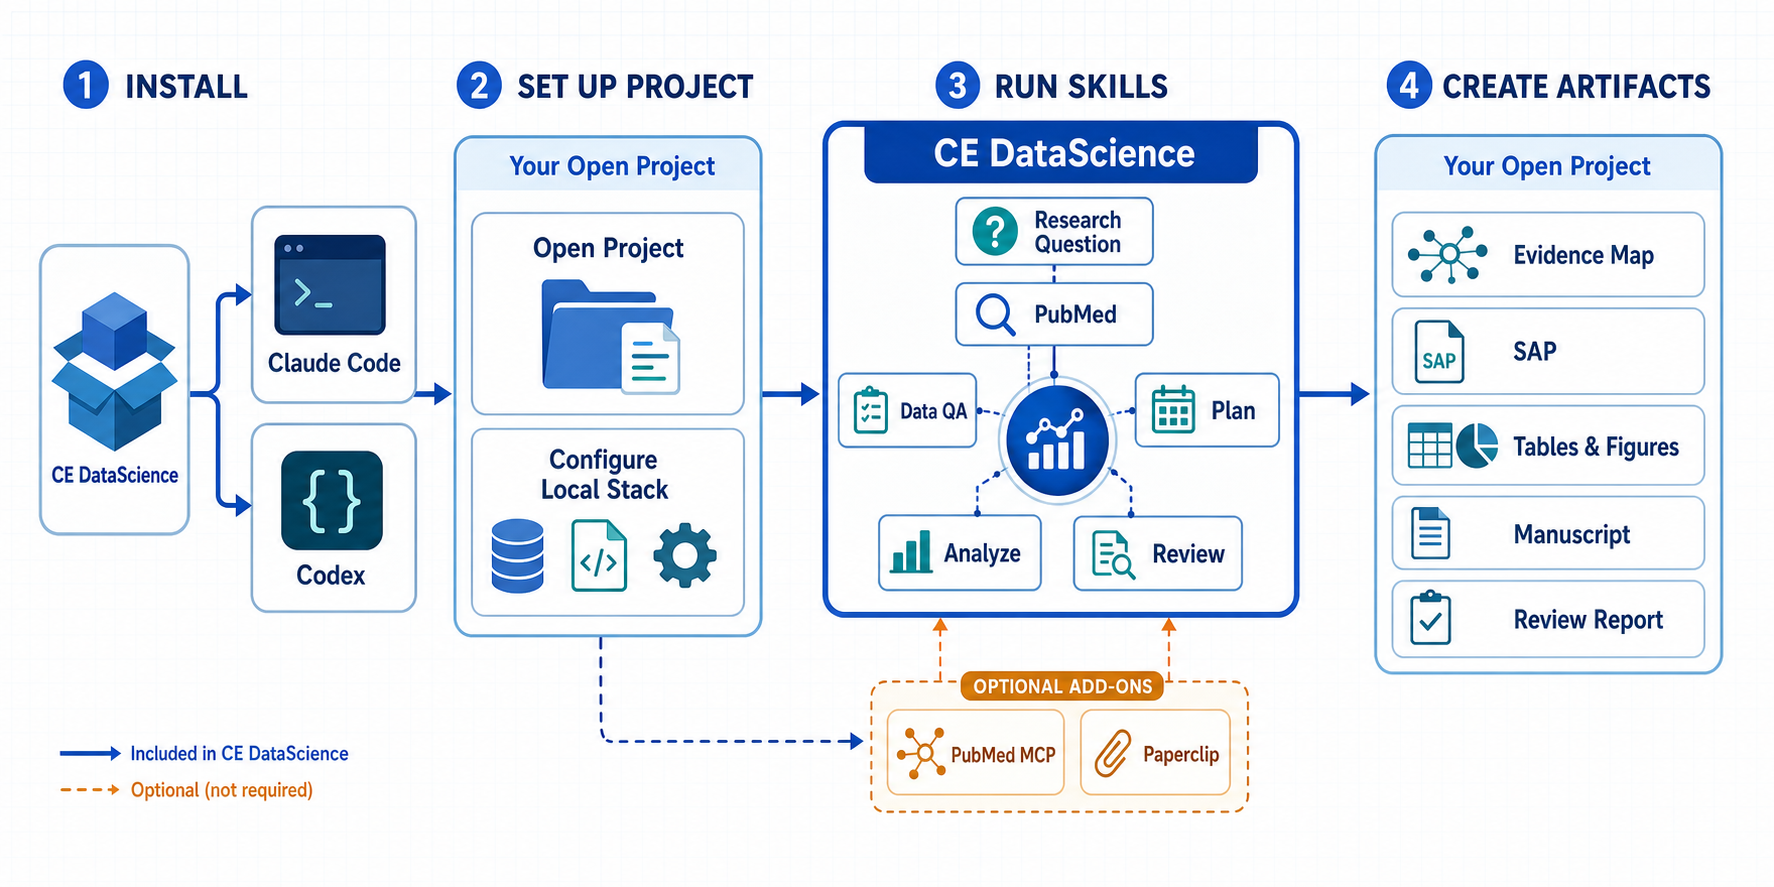
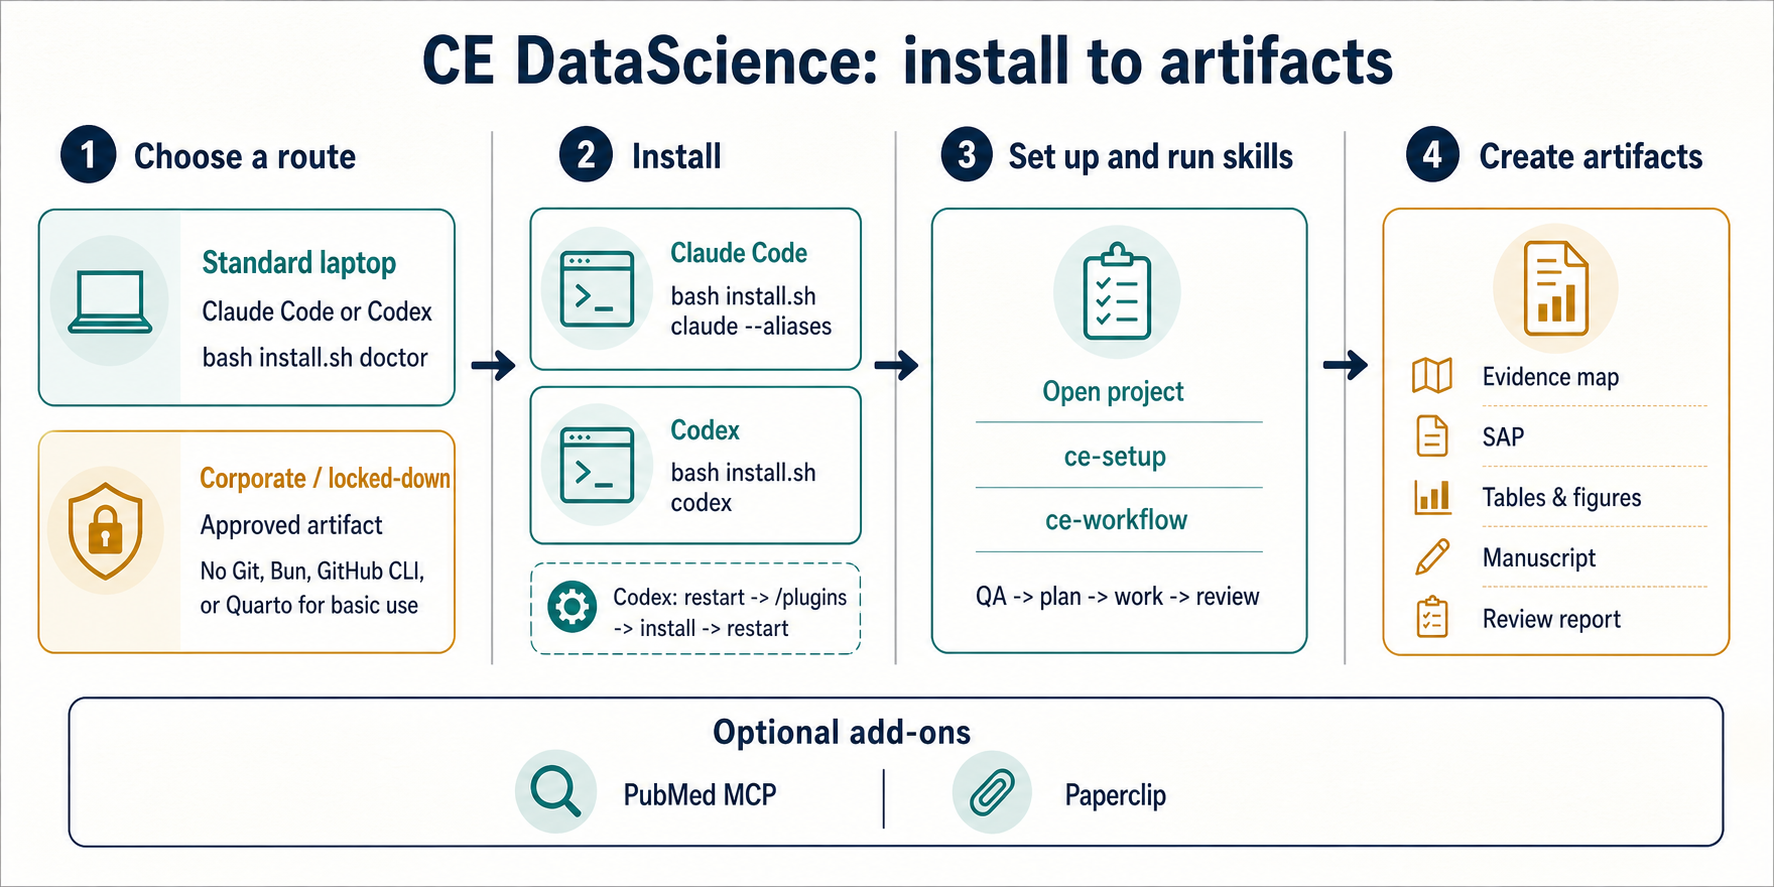
feat(onboarding): clarify installation and workflow safeguards

diff --git a/tests/corporate-install.test.ts b/tests/corporate-install.test.ts
@@ -60,6 +60,12 @@ describe("corporate install artifacts", () => {
     expect(claude.stdout).toContain("install-claude-aliases.sh")
     expect(claude.stdout).toContain("/ce-setup")
 
+    const doctor = await run(["bash", installer, "doctor"])
+    expect(doctor.stdout).toContain("CE DataScience install check")
+    expect(doctor.stdout).toContain("Standard laptop:")
+    expect(doctor.stdout).toContain("Locked-down or corporate laptop:")
+    expect(doctor.stdout).toContain("Codex always requires the final host step")
+
     const codex = await run([
       "bash",
       installer,
@@ -112,6 +118,7 @@ describe("corporate install artifacts", () => {
     expect(powershellInstaller).toContain("CE_DATASCIENCE_ALIAS_MANAGED")
     expect(powershellInstaller).toContain('Test-CommandAvailable "python3"')
     expect(powershellInstaller).toContain('Test-CommandAvailable "py"')
+    expect(powershellInstaller).toContain('"doctor" { Show-Doctor }')
 
     const readme = await fs.readFile(path.join(repoRoot, "README.md"), "utf8")
     const setupDocs = await fs.readFile(path.join(repoRoot, "docs", "setup.md"), "utf8")
@@ -122,6 +129,7 @@ describe("corporate install artifacts", () => {
       expect(doc).toContain("bash install.sh codex")
       expect(doc).toContain(".\\install.ps1 claude -Aliases")
       expect(doc).toContain(".\\install.ps1 codex")
+      expect(doc).toContain("install.sh doctor")
     }
     expect(setupDocs).toContain("Windows PowerShell")
     expect(setupDocs).toContain("Git Bash")
@@ -449,5 +457,27 @@ describe("corporate install artifacts", () => {
     expect(setupDocs).toMatch(/Never send protected\s+health information/)
     expect(setupDocs).toMatch(/must not install or authenticate\s+either add-on automatically/)
     expect(setupDocs).toMatch(/running `\/ce-evidence-map` authorizes\s+its documented optional deepening/)
+  })
+
+  test("public docs describe the current method and CLIF safeguards", async () => {
+    const rootReadme = await fs.readFile(path.join(repoRoot, "README.md"), "utf8")
+    const setupDocs = await fs.readFile(path.join(repoRoot, "docs", "setup.md"), "utf8")
+    const pluginReadme = await fs.readFile(path.join(pluginRoot, "README.md"), "utf8")
+    const docsIndex = await fs.readFile(path.join(repoRoot, "docs", "index.html"), "utf8")
+
+    for (const doc of [rootReadme, setupDocs, pluginReadme, docsIndex]) {
+      expect(doc).toContain("--version 2.1.0")
+      expect(doc).toContain("--version 3.0.0")
+      expect(doc).toMatch(/time-dependent AUC/i)
+    }
+
+    for (const doc of [rootReadme, setupDocs, pluginReadme]) {
+      expect(doc).toMatch(/estimand/i)
+      expect(doc).toMatch(/missing-data/i)
+      expect(doc).toMatch(/synthetic\/fallback|fallback data|fabricating fallbacks/i)
+    }
+
+    expect(pluginReadme).toContain("GO/WARN/NO-GO")
+    expect(setupDocs).toContain("pi-ask-user")
   })
 })

diff --git a/docs/index.html b/docs/index.html
@@ -63,6 +63,11 @@
       Clone the repository, run the installer for your agent, restart the agent,
       and open the project or study directory where you want the plugin to work.
     </p>
+    <p>
+      From a source checkout, run <code>bash install.sh doctor</code> (or
+      <code>.\install.ps1 doctor</code> in PowerShell) to identify the standard
+      or corporate/locked-down route before making changes.
+    </p>
     <h3>Claude Code</h3>
     <pre><code>git clone https://github.com/sajor2000/ce-datascience.git ~/ce-datascience
 cd ~/ce-datascience
@@ -96,6 +101,20 @@ bun run src/index.ts install ./plugins/ce-datascience --to pi --pi-home "$HOME/.
       with Pi's skill interface. The setup skill first shows a concise detected
       profile and lets the user continue, adjust one field, or open the full
       survey.
+    </p>
+    <h2>Evidence and version safeguards</h2>
+    <p>
+      Before planning or modeling, CE DataScience checks row counts, joins,
+      keys, types, and missing-data handling instead of fabricating fallbacks.
+      For observational work, it keeps the estimand, analysis grain, time zero,
+      and assumptions visible for analyst resolution.
+    </p>
+    <p>
+      CLIF projects can select a matching dictionary and mCIDE family directly:
+      <code>/ce-clif --version 2.1.0</code> selects CLIF/mCIDE 2.1, while
+      <code>/ce-clif --version 3.0.0</code> selects the matching 3.0 family.
+      Dynamic survival models receive censoring-aware, decision-aligned
+      time-dependent AUC review rather than a generic AUC-only check.
     </p>
     <p>
       <a href="https://github.com/sajor2000/ce-datascience"

diff --git a/plugins/ce-datascience/README.md b/plugins/ce-datascience/README.md
@@ -13,6 +13,12 @@ Compound engineering for computational scientists. SAP management, statistical r
 For complete copy-paste setup across Claude Code, Codex, OpenCode, Gemini CLI,
 Kiro, Pi, and Qwen Code, see [`../../docs/setup.md`](../../docs/setup.md).
 
+From a source checkout, run `bash install.sh doctor` (or
+`.\install.ps1 doctor` in PowerShell) for a read-only check of the standard and
+locked-down routes. It detects the local agent CLIs and optional Bun bridge,
+then prints the appropriate next command. Corporate users can use approved
+offline artifacts without Git, Bun, GitHub CLI, or Quarto.
+
 Fastest normal Claude Code setup:
 
 macOS, Linux, WSL, or Git Bash:
@@ -134,6 +140,27 @@ adjust one field, or choose the full survey. It infers language, environment,
 reporting, storage, and data domain from project files and leaves optional
 preferences unset instead of forcing a long questionnaire.
 
+### Safety gates in current workflows
+
+CE DataScience keeps method decisions explicit rather than filling gaps with
+defaults. `ce-data-qa` checks row-count reconciliation, key uniqueness, join
+cardinality, type stability, index alignment, and declared missing-data
+handling before it emits GO, WARN, or NO-GO. Confirmed corruption or undeclared
+synthetic/fallback data is a NO-GO.
+
+For observational or causal work, `ce-plan` and
+`ce-statistical-analysis-plan` require an estimand, intended grain, keys, time
+zero, assumptions, and success criteria before finalization. `ce-work` fails
+loudly at missing, corrupt, or incompatible inputs. `ce-code-review` separates
+demonstrated integrity defects (blocking) from methodological questions that
+need analyst resolution, including causal timing and dynamic survival-model
+evaluation.
+
+For dynamic survival decisions, the calibration reviewer requires a stated
+decision time and horizon, a case/control definition, censoring-aware
+time-dependent AUC with confidence intervals, and calibration at the matching
+horizon. A generic binary AUC or Harrell C-index does not answer that question.
+
 Connection skills can hand setup a verified database default by emitting
 `__CE_CONNECTION__ name=<name> type=<postgres|sqlite|duckdb|other> database=<db> auth=<auth> status=verified`.
 For database-backed projects, `data_root` stays optional and is used only for
@@ -219,14 +246,14 @@ The compound engineering loop adapted for data science: hypothesize, design stud
 | `/ce-research-question` | Harden a fuzzy study idea into structured PICO + FINER + PubMed query at `analysis/research-question.yaml` |
 | `/ce-plan` | Create structured plans -- Statistical Analysis Plans (SAPs) for studies, or implementation plans for technical tasks, with Markdown/HTML output modes and format-preserving resume |
 | `/ce-statistical-analysis-plan` | Create claims-based SAPs, methods prose, variable dictionaries, and analysis workbooks with explicit grain, diagnostics, decision evidence, and literature grounding |
-| `/ce-code-review` | Statistical and methodological review with confidence-calibrated findings, reporting checklist compliance, and blinding-state awareness (auto-detected from stack profile) |
-| `/ce-work` | Execute analysis tasks with SAP tracking -- surfaces unimplemented SAP sections, flags exploratory analyses, and seeds tasks from the tabular SAP output catalog when present |
+| `/ce-code-review` | Statistical and methodological review with confidence-calibrated integrity/causal findings, reporting checklist compliance, and blinding-state awareness (auto-detected from stack profile) |
+| `/ce-work` | Execute analysis tasks with SAP tracking while failing loudly at missing or corrupt inputs; surfaces unimplemented SAP sections, flags exploratory analyses, and seeds tasks from the tabular SAP output catalog when present |
 | `/ce-notebook-edit` | Safely insert reviewed cells into existing Jupyter notebooks using unique metadata tags, backups, and structural validation |
 | `/ce-debug` | Systematically find root causes in analysis pipelines and data issues |
 | `/ce-compound` | Document validated analytical approaches, statistical decisions, and domain methods (with deterministic dedup fingerprints across studies) |
 | `/ce-compound-refresh` | Refresh stale learnings and decide whether to keep, update, replace, or archive |
 | `/ce-sap-tabular` | Generate the biostatistics-style tabular companion to the prose SAP -- Overview, Outputs, Master Variables, and optional long/wide sample sheets that statisticians hand to programmers |
-| `/ce-data-qa` | Data QA gate with 16 numbered checks, GO/NO-GO emit, missingness pattern catalog, and PI sign-off block. Runs between data extraction and modeling |
+| `/ce-data-qa` | Data QA gate for row counts, joins, keys, types, missingness, and stack-specific integrity risks; emits GO/WARN/NO-GO, a missingness catalog, and PI sign-off block. Runs between data extraction and modeling |
 | `/ce-verify` | Mid-workflow analysis verification gate -- checks sample size, data leakage, effect direction, missing data, PHI, figure quality, and reproducibility between analysis steps |
 | `/ce-sprint` | Open or close an auditable sprint with declared scope (subset of SAP sections), planned outputs, and a named human reviewer. Closing dispatches `ce-sprint-audit-reviewer` |
 
@@ -253,7 +280,7 @@ For the academic paper lifecycle: literature → checklist → cohort → power 
 
 | Skill | Description |
 |-------|-------------|
-| `/ce-clif` | Activate CLIF-safe profile for ICU consortium repos -- anchors to clif-icu.com, confirms the CLIF/mCIDE 2.1 or 3.0 family when not declared, then enforces Parquet-only, version-correct mCIDE vocab, three-script architecture, and POC sign-off on protected paths |
+| `/ce-clif` | Activate CLIF-safe profile for ICU consortium repos -- `/ce-clif --version 2.1.0` selects CLIF/mCIDE 2.1 and `--version 3.0.0` selects the matching 3.0 family; otherwise confirms a declared family before enforcing Parquet-only, version-correct mCIDE vocab, three-script architecture, and POC sign-off on protected paths |
 | `/ce-cohort-build` | Define a study cohort using OMOP concept sets / ICD / CPT / LOINC code lists with vocabulary version pinning; outputs SQL, JSON spec, and CONSORT-flow waterfall |
 | `/ce-phenotype-validate` | Validate an EHR-derived phenotype algorithm against a chart-review gold standard; PPV / NPV / sensitivity / specificity overall and by subgroup |
 
@@ -348,7 +375,7 @@ Agents are specialized subagents invoked by skills.
 |-------|-------------|
 | `ce-data-leakage-reviewer` | Target leakage, train-test contamination, look-ahead bias in time-series, normalization fit on test set, subject-in-both-splits |
 | `ce-fairness-reviewer` | Subgroup performance auditing (sex / race / age / hospital / payer / language) for clinical prediction models, against TRIPOD+AI and FDA AI/ML guidance |
-| `ce-calibration-reviewer` | Calibration plot, intercept and slope, Brier, ICI, decision-curve analysis -- catches the AUC-only TRIPOD+AI gap |
+| `ce-calibration-reviewer` | Calibration plot, intercept and slope, Brier, ICI, decision-curve analysis, and censoring-aware time-dependent AUC for dynamic survival decisions -- catches the AUC-only TRIPOD+AI gap |
 
 ### EHR & Administrative Data Review
 

diff --git a/docs/setup.md b/docs/setup.md
@@ -20,6 +20,26 @@ Windows.
 | Windows with Git Bash | Git Bash | `bash install.sh claude --aliases` or `bash install.sh codex` | `C:/Users/...` paths are accepted by the Bash helper. |
 | Windows PowerShell | PowerShell | `.\install.ps1 claude -Aliases` or `.\install.ps1 codex` | Native Windows path handling and Codex offline install support. |
 
+## Choose Your Install Route
+
+If you have a source checkout, run the read-only install check first:
+
+```bash
+bash install.sh doctor
+```
+
+On Windows PowerShell, use:
+
+```powershell
+.\install.ps1 doctor
+```
+
+The check reports whether the checkout or approved artifact is recognized and
+whether the local Claude, Codex, and optional Bun tools are available. Use the
+standard route below on a personal or managed laptop that can run Git and the
+agent CLI. On a locked-down or corporate laptop, skip source-build tooling and
+use the approved offline artifact route in section 2.
+
 ## 1. Easiest Install Path
 
 This mirrors the original Compound Engineering plugin experience: install once,
@@ -332,6 +352,10 @@ cd "$CE_DS_REPO"
 bun run src/index.ts install ./plugins/ce-datascience --to pi --pi-home "$HOME/.pi/agent"
 ```
 
+`pi-subagents` is required for CE workflows that delegate work. Add
+`pi install npm:pi-ask-user` when you want Pi's compact blocking-question UI;
+without it, skills use their documented numbered-choice fallback.
+
 ### Qwen Code
 
 Qwen Code uses its native extension installer:
@@ -381,6 +405,22 @@ lockfiles, notebooks, IDE files, SAP artifacts, and recent verified connection
 handoffs before asking. Follow-up questions should be limited to decisions that
 change generated config, routing, or scientific scope.
 
+### Versioned CLIF projects
+
+For a CLIF repository, setup and workflow reuse a matching declared CLIF data
+dictionary and mCIDE family. When you need to choose explicitly, invoke one of
+these calls before category work:
+
+```text
+/ce-clif --version 2.1.0  # CLIF 2.1 + mCIDE 2.1
+/ce-clif --version 3.0.0  # CLIF 3.0 + mCIDE 3.0
+```
+
+An explicit call does not prompt again. If it conflicts with an explicitly
+declared local or project pair, CE shows the mismatch and asks which source is
+intended. It never infers CLIF 3.0 from a folder name or missing language
+signals.
+
 If another skill verifies a database connection first, it can emit a generic
 handoff such as:
 
@@ -406,6 +446,19 @@ aliases, prefix each one with `/ce-datascience:`, such as
 `/ce-datascience:ce-research-question`. In Codex, ask it to use the named CE
 DataScience skill. Skills operate on the currently open project and should be
 given the scientific question, analysis goal, or code task they need.
+
+Before planning or modeling, keep the integrity gate in place: `ce-data-qa`
+reconciles rows and joins, validates keys and types, and records missing-data
+handling. It returns NO-GO for confirmed corruption or undeclared
+synthetic/fallback data. For observational or causal work, planning requires an
+estimand, analysis grain, keys, time zero, assumptions, and success criteria;
+unresolved methodological choices remain analyst questions.
+
+For dynamic survival models, `ce-code-review` routes to the calibration reviewer
+for decision-aligned, censoring-aware time-dependent AUC rather than treating a
+generic AUC or C-index as sufficient. For claims-based studies, use
+`/ce-statistical-analysis-plan` to produce the linked SAP, variables,
+diagnostics, outputs, and decision-evidence contract.
 
 Each public skill starts with a `Skill Value` block that names the problem it
 solves, when to use it, expected output, when it should ask questions, and what

diff --git a/README.md b/README.md
@@ -19,6 +19,15 @@ One plugin gives your coding agent the entire biomedical research lifecycle: fra
 The normal path is intentionally short: install the plugin, start your agent,
 then run setup. For complete platform details, see [docs/setup.md](docs/setup.md).
 
+### Choose your install route
+
+From a source checkout, run `bash install.sh doctor` to see which local tools
+are available and the exact standard or locked-down route. Use the standard
+route on a personal or managed laptop that can run Git and the agent CLI. On a
+corporate or locked-down laptop, ask IT for the approved offline artifact and
+use the artifact-specific path below; Bun, Git, GitHub CLI, and Quarto are not
+required for basic use.
+
 ### Claude Code, easiest path
 
 macOS, Linux, WSL, or Git Bash:
@@ -268,6 +277,29 @@ plugin installs, use `/ce-datascience:ce-*` unless local aliases are installed.
 /ce-compound
 ```
 
+### Keep analysis decisions explicit
+
+The lifecycle now makes the most consequential analytical assumptions visible
+before code is written or trusted:
+
+- `/ce-data-qa` reconciles row counts and joins, checks keys and type stability,
+  records missing-data handling, and returns GO, WARN, or NO-GO rather than
+  silently substituting fallback data.
+- `/ce-plan` and `/ce-statistical-analysis-plan` require the estimand, intended
+  grain, keys, time zero, and success criteria for observational or causal
+  work; unresolved choices remain questions for the analyst.
+- `/ce-work` fails loudly at missing or corrupt inputs. `/ce-code-review`
+  checks integrity and causal timing, and requires censoring-aware,
+  decision-aligned time-dependent AUC for dynamic survival models.
+
+For an administrative claims study, use the claims-oriented SAP workflow when
+you need a linked methods section, variables dictionary, analyses, diagnostics,
+outputs, and decision evidence:
+
+```text
+/ce-statistical-analysis-plan
+```
+
 ### Build a prediction model
 
 ```
@@ -285,10 +317,17 @@ plugin installs, use `/ce-datascience:ce-*` unless local aliases are installed.
 ### Work with CLIF consortium data
 
 ```
-# Anchored to clif-icu.com; activates automatically for CLIF repos
+# Anchored to clif-icu.com; setup can infer a declared matching family.
+# Use an explicit call when choosing the family for this task:
+/ce-clif --version 2.1.0  # CLIF 2.1 + mCIDE 2.1
+# or
+/ce-clif --version 3.0.0  # CLIF 3.0 + mCIDE 3.0
 /ce-workflow
 /ce-work
 ```
+
+If a direct call conflicts with an explicitly declared project pair, CE asks
+which source is intended before it validates categories or generates filters.
 
 ### Analyze omics data
 
@@ -335,7 +374,7 @@ These workflow utilities are adapted from the original compound-engineering plug
 | Data layer | How it activates | What it does |
 |---|---|---|
 | **OMOP CDM** | SQL with `cdm_source`, `concept`, `person` | OMOP SQL + concept sets, vocabulary pinning |
-| **CLIF** | `CLIF_CLAUDE.md`, `clif-icu` remote, or CLIF handoff | Anchors to clif-icu.com; Parquet-only, mCIDE vocab, POC sign-off |
+| **CLIF** | `CLIF_CLAUDE.md`, `clif-icu` remote, or CLIF handoff | Anchors to clif-icu.com; explicit CLIF/mCIDE 2.1 or 3.0 family, Parquet-only, version-correct mCIDE vocab, POC sign-off |
 | **Admin claims** | Medicare/Medicaid/MarketScan in code | Enrollment gaps, NDC-to-RxNorm, claims reviewer |
 | **Custom EHR** | Default | PHI scanning, generic cohort building |
 | **Bioinformatics** | `.fastq`, `.bam`, `Snakefile` | FastQC/MultiQC, genome build, batch-effect screen |

diff --git a/plugins/ce-datascience/CHANGELOG.md b/plugins/ce-datascience/CHANGELOG.md
@@ -1,13 +1,9 @@
 # Changelog
 
-This file is no longer the canonical changelog for ce-datascience releases.
-
-Historical entries are preserved below, but new release history is recorded in the root [`CHANGELOG.md`](../../CHANGELOG.md).
-
-All notable changes to the ce-datascience plugin will be documented in this file.
-
-The format is based on [Keep a Changelog](https://keepachangelog.com/en/1.0.0/),
-and this project adheres to [Semantic Versioning](https://semver.org/spec/v2.0.0.html).
+This generated historical file is maintained only by Release Please in its
+release pull requests. Canonical current release notes are the repository's
+[GitHub Releases](https://github.com/sajor2000/ce-datascience/releases) and
+open release PRs. Do not hand-add entries from feature or documentation work.
 
 ## [3.4.2](https://github.com/sajor2000/ce-datascience/compare/ce-datascience-v3.4.1...ce-datascience-v3.4.2) (2026-07-16)
 

diff --git a/CHANGELOG.md b/CHANGELOG.md
@@ -1,5 +1,11 @@
 # Changelog
 
+This generated history is updated only by Release Please in its release pull
+requests. For the current release status and notes, use the repository's
+[GitHub Releases](https://github.com/sajor2000/ce-datascience/releases) and
+open release PRs; do not hand-add release entries from feature or documentation
+work.
+
 ## [3.4.2](https://github.com/sajor2000/ce-datascience/compare/cli-v3.4.1...cli-v3.4.2) (2026-07-16)
 
 
